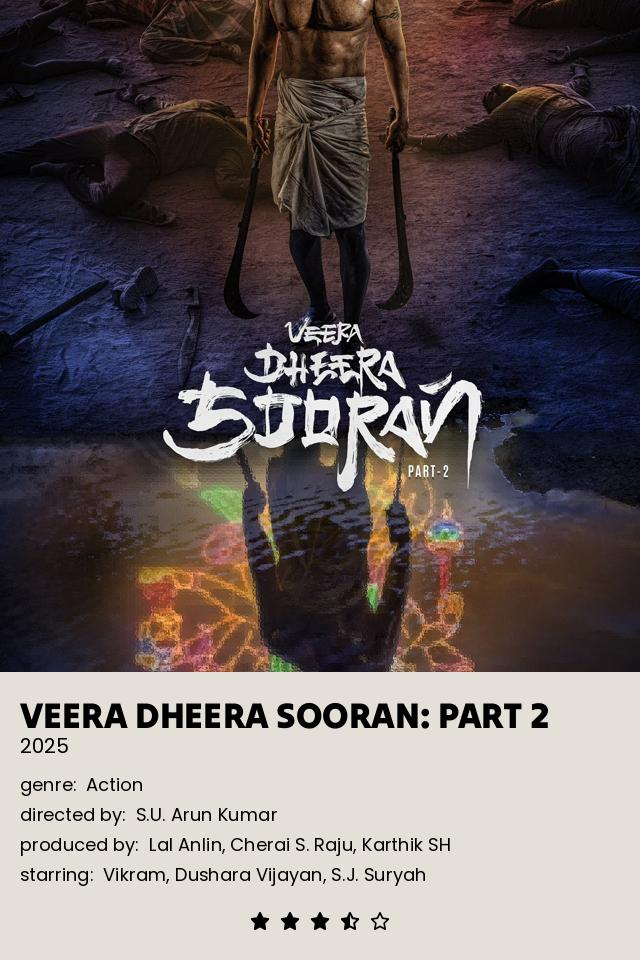
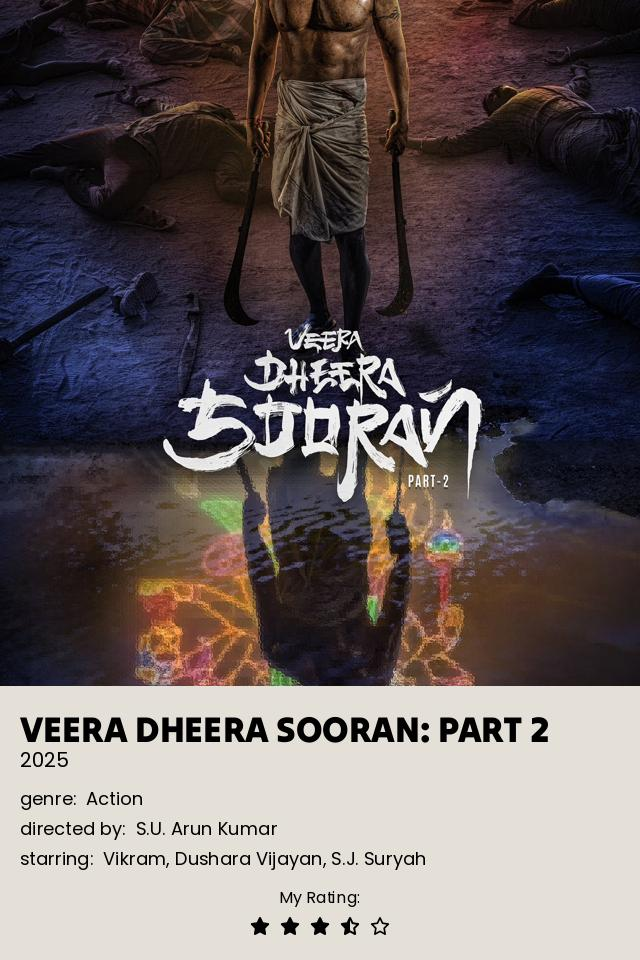
movie update

diff --git a/movie/star.py b/movie/star.py
@@ -58,19 +58,33 @@ def get_star_icons(rating, assets_path="assets"):
 
     return [Image.open(os.path.join(assets_path, icon)).convert("RGBA") for icon in icons]
 
-def draw_rating(poster_img, rating, assets_path="assets", spacing=10, y_offset=30):
+def draw_rating(poster_img, rating, assets_path="assets", spacing=10, y_offset=30, label_font_path=TEXT_FONT):
     """
     Draws star icons at the bottom center of the poster image.
     """
     stars = get_star_icons(rating, assets_path)
     if not stars:
         return
+        
+    draw = ImageDraw.Draw(poster_img)
+    label_font = ImageFont.truetype(label_font_path, 16)
 
     star_width, star_height = stars[0].size
     total_width = len(stars) * star_width + (len(stars) - 1) * spacing
 
+        # Text position
+    label_text = "My Rating:"
+    label_bbox = draw.textbbox((0, 0), label_text, font=label_font)
+    label_width = label_bbox[2] - label_bbox[0]
+    label_height = label_bbox[3] - label_bbox[1]
+    label_x = (poster_img.width - label_width) // 2
+    label_y = poster_img.height - star_height - y_offset - label_height - 10
+
+    draw.text((label_x, label_y), label_text, font=label_font, fill="black")
+
+    # Stars below the text
     x_start = (poster_img.width - total_width) // 2
-    y_start = poster_img.height - star_height - y_offset
+    y_start = label_y + label_height + 15  # a little gap between text and stars
 
     for i, star in enumerate(stars):
         x = x_start + i * (star_width + spacing)
@@ -82,7 +96,7 @@ def generate_poster(movie, poster_img):
     poster = Image.new("RGB", (width, height), color="#e4e0d8")
 
     # Resize and paste poster image
-    poster_img = poster_img.resize((width, int(height * 0.7)))
+    poster_img = poster_img.resize((width, int(height * 0.715)))
     poster.paste(poster_img, (0, 0))
 
     draw = ImageDraw.Draw(poster)
@@ -91,7 +105,7 @@ def generate_poster(movie, poster_img):
     sub_font = ImageFont.truetype(TEXT_FONT, 20)
     small_font = ImageFont.truetype(TEXT_FONT, 18)
 
-    y = int(height * 0.7) + 20
+    y = int(height * 0.715) + 20
     draw.text((20, y), f"{movie['title'].upper()}", font=title_font, fill="black")
     y += 40
     draw.text((20, y), f"{movie.get('year', '')}", font=sub_font, fill="black")
@@ -103,10 +117,6 @@ def generate_poster(movie, poster_img):
 
     if 'director' in movie:
         draw.text((20, y), f"directed by:  {format_list(movie['director'])}", font=small_font, fill="black")
-        y += 30
-
-    if 'producer' in movie:
-        draw.text((20, y), f"produced by:  {format_list(movie['producer'])}", font=small_font, fill="black")
         y += 30
 
     if 'cast' in movie:

diff --git a/movie/text.py b/movie/text.py
@@ -75,7 +75,7 @@ def generate_poster(movie, poster_img):
     poster = Image.new("RGB", (width, height), color="#e4e0d8")
 
     # Resize and paste poster image
-    poster_img = poster_img.resize((width, int(height * 0.7)))
+    poster_img = poster_img.resize((width, int(height * 0.725)))
     poster.paste(poster_img, (0, 0))
 
     draw = ImageDraw.Draw(poster)
@@ -84,7 +84,7 @@ def generate_poster(movie, poster_img):
     sub_font = ImageFont.truetype(TEXT_FONT, 20)
     small_font = ImageFont.truetype(TEXT_FONT, 18)
 
-    y = int(height * 0.7) + 20
+    y = int(height * 0.725) + 20
     draw.text((20, y), f"{movie['title'].upper()}", font=title_font, fill="black")
     y += 40
     draw.text((20, y), f"{movie.get('year', '')}", font=sub_font, fill="black")
@@ -96,10 +96,6 @@ def generate_poster(movie, poster_img):
 
     if 'director' in movie:
         draw.text((20, y), f"directed by:  {format_list(movie['director'])}", font=small_font, fill="black")
-        y += 30
-
-    if 'producer' in movie:
-        draw.text((20, y), f"produced by:  {format_list(movie['producer'])}", font=small_font, fill="black")
         y += 30
 
     if 'cast' in movie:
